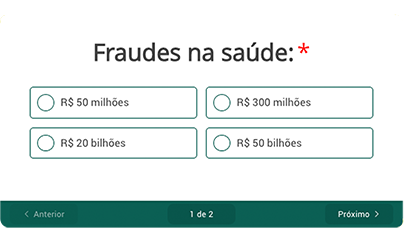
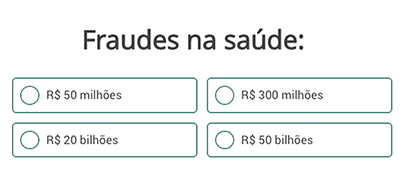
Ajuste de layout

Changed region(s): [[0.0, 0.3385, 1.0, 0.9538], [0.2079, 0.1231, 0.7723, 0.2769]]

diff --git a/index.html b/index.html
@@ -26,7 +26,7 @@
                 <table bgcolor="#ffffff" width="100%" border="0" cellpadding="0" cellspacing="0" align="center" style="max-width: 600px;margin-top: -2px !important;">
                     <tr>
                         <td>
-                            <img src="images/fraudes-no-sistema.png" width="100%" border="0" alt="FRAUDES NO SISTEMA DE SAÚDE. Você sabe quanto as operadoras de saúde perdem, por ano, por conta das fraudes? " style="display:block; padding:0;max-width: 600px;">
+                            <img src="images/fraudes-no-sistema.jpg" width="100%" border="0" alt="FRAUDES NO SISTEMA DE SAÚDE. Você sabe quanto as operadoras de saúde perdem, por ano, por conta das fraudes? " style="display:block; padding:0;max-width: 600px;">
                         </td>
                     </tr>
                 </table>
@@ -45,6 +45,13 @@
                         <td align="center">
                             <a href="https://conteudourbano.outgrow.us/unimedpay_01" target="_blank">
                                 <img src="images/fraudes-na-saude.png" width="100%" border="0" alt="Fraudes na saúde:*. R$ 50 Milhões | R$ 300 Milhões | R$ 20 bilhões | R$ 50 bilhões" style="display:block; padding:0;max-width: 404px;">
+                            </a>
+                        </td>
+                    </tr>
+                    <tr>
+                        <td align="center">
+                            <a href="https://conteudourbano.outgrow.us/unimedpay_01" target="_blank">
+                                <img src="images/acesse-o-link.png" width="100%" border="0" alt="Acesse esse link e saiba mais sobre a solução que a Unimed Participações está propondo, por meio da Unimed Pay. Fique por dentro das nossas comunicações e saiba mais!" style="display:block; padding:0;max-width: 521px;">
                             </a>
                         </td>
                     </tr>
@@ -71,17 +78,17 @@
                             <img src="images/footer-1.png" width="100%" border="0" alt="Unimed Pay" style="display:block; padding:0;max-width: 98px;">
                         </td>
                         <td>
-                            <a href="#" target="_blank" >
+                            <a href="https://br.linkedin.com/company/unimed-participa%C3%A7es-ltda" target="_blank" >
                                 <img src="images/linkedin.png" width="100%" border="0" alt="linkedin" style="display:block; padding:0;max-width: 49px;">
                             </a>
                         </td>
                         <td>
-                            <a href="#" target="_blank" >
+                            <a href="https://www.youtube.com/channel/UCP_1V_AS4b2euFGLRT5YUeA" target="_blank" >
                                 <img src="images/youtube.png" width="100%" border="0" alt="youtube" style="display:block; padding:0;max-width: 48px;">
                             </a>
                         </td>
                         <td>
-                            <a href="#" target="_blank" >
+                            <a href="https://www.unimed.coop.br/site/web/participacoes" target="_blank" >
                                 <img src="images/acesse.png" width="100%" border="0" alt="Clique aqui para acessar nosso site." style="display:block; padding:0;max-width: 405px;">
                             </a>
                         </td>
